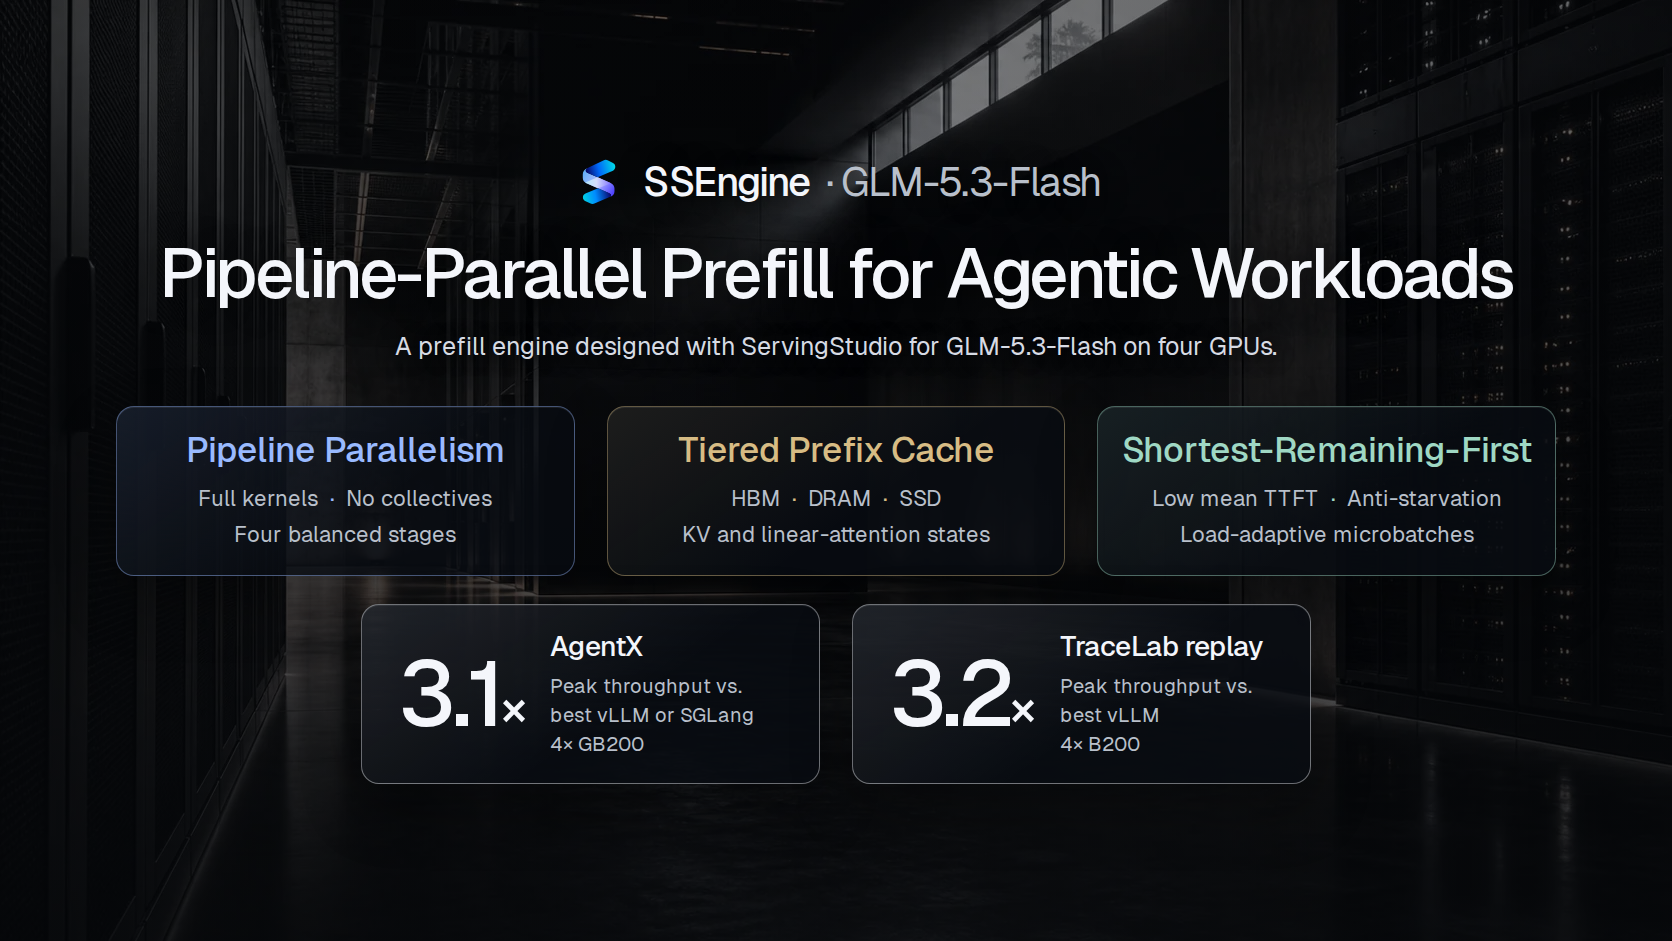
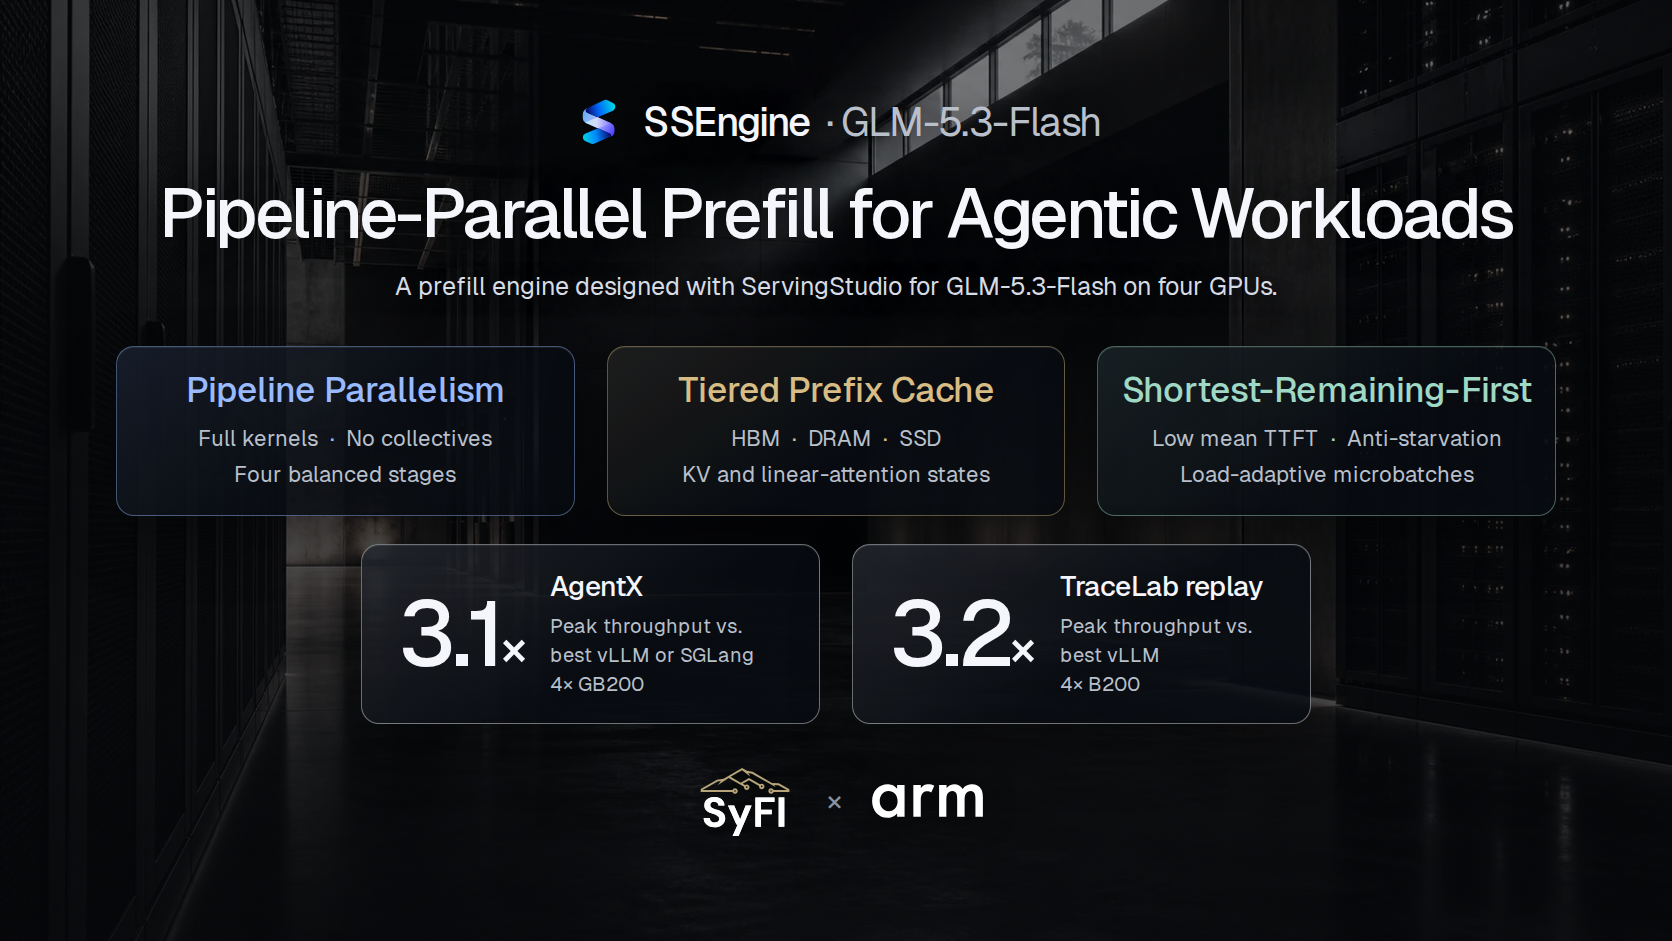
Blog: author affiliations; SSEngine post credits Arm
Posts may list affiliations in metadata.json ([{ name, authors }]); the post
header numbers each author and lists the affiliations under the names. The
SSEngine-GLM5.3-Flash post lists the University of Washington and Arm, names
the AgentX hardware as an Arm-based GB200 NVL72 rack, adds an
Acknowledgments section, and its teaser carries the SyFI and Arm logos.

diff --git a/src/pages/Blog.jsx b/src/pages/Blog.jsx
@@ -75,12 +75,35 @@ function Citation({ citation }) {
   );
 }
 
-function PostMeta({ post }) {
+/* The post's own header numbers each author's affiliations and lists them
+   under the line; the index cards show names only. */
+function PostMeta({ post, affiliations = false }) {
+  const marks = affiliations ? post.affiliations?.marks : null;
   return (
     <div className={s.meta}>
       {post.date && <time dateTime={post.date}>{formatDate(post.date)}</time>}
-      <span>{post.authors.join(", ")}</span>
+      <span>
+        {marks
+          ? post.authors.map((author, i) => (
+              <span key={author}>
+                {i > 0 && ", "}
+                {author}
+                <sup>{marks[i].join(",")}</sup>
+              </span>
+            ))
+          : post.authors.join(", ")}
+      </span>
       <span>{post.readingMinutes} min read</span>
+      {marks && (
+        <span className={s.affiliations}>
+          {post.affiliations.names.map((name, i) => (
+            <span key={name}>
+              <sup>{i + 1}</sup>
+              {name}
+            </span>
+          ))}
+        </span>
+      )}
     </div>
   );
 }
@@ -127,7 +150,7 @@ export default function Blog({ slug }) {
           </div>
           <h1>{post.title}</h1>
           <p>{post.description}</p>
-          <PostMeta post={post} />
+          <PostMeta post={post} affiliations />
         </header>
         <div className={s.articleLayout}>
           <aside className={s.contents}>

diff --git a/src/pages/Blog.module.css b/src/pages/Blog.module.css
@@ -222,6 +222,20 @@
   line-height: 1.6;
 }
 
+.meta sup {
+  margin-left: 1px;
+  font-size: 0.7em;
+}
+
+/* Its own line under the authors: "1 University of Washington  2 Arm". */
+.affiliations {
+  display: flex;
+  flex-basis: 100%;
+  flex-wrap: wrap;
+  gap: 4px 18px;
+  margin-top: -4px;
+}
+
 .postCopy .meta {
   margin-top: auto;
   padding-top: 24px;

diff --git a/content/blog/ssengine-glm53-flash/index.md b/content/blog/ssengine-glm53-flash/index.md
@@ -126,7 +126,7 @@ An agent fleet keeps hundreds or thousands of sessions alive at once, and most o
 
 Figure 11a follows the cache through eight hours of a simulated fleet of 1,500 TraceLab sessions on four B200 GPUs, each with 150 GB of DRAM and an 8 TB SSD. This is the load at which the GPUs serve the most requests per second. HBM and DRAM fill within seconds, because all 1,500 sessions start at once. The SSD then keeps filling: after eight hours, it holds 2.9 TB per GPU, 29 times what HBM holds, and it is still rising. Returning turns read their contexts from all three tiers: 20.7% find them in HBM, 55.6% in DRAM and 23.6% on the SSD. Without the SSD, the same fleet collapses. Nearly every turn must then prefill its whole context again, and the throughput falls from about 55 requests per second to below 1.
 
-Real hardware shows the same limits (Figures 11b and 11c). We serve AgentX on four GB200 GPUs with three cache sizes: HBM only, HBM plus 100 GB of DRAM per GPU, and both plus a 512 GB SSD per GPU. We define the hit rate as the share of prompt tokens read from the cache instead of being prefilled. Up to 128 agents, the three sizes perform the same, because the contexts still fit in HBM. At 256 agents, HBM alone no longer holds them: with HBM only, the hit rate is 89% and the throughput 12.5 requests per second, against 94% and 15.0, respectively, with the larger caches. At 512 agents, DRAM is not enough either. With HBM only, the hit rate falls to 60% and the throughput to 4.7 requests per second; with DRAM, they fall to 88% and 13.7. Only with the SSD does the hit rate stay at 94% and the throughput rise to 24.0 requests per second.
+Real hardware shows the same limits (Figures 11b and 11c). We serve AgentX on four GPUs of an Arm-based NVIDIA GB200 NVL72 rack with three cache sizes: HBM only, HBM plus 100 GB of DRAM per GPU, and both plus a 512 GB SSD per GPU. We define the hit rate as the share of prompt tokens read from the cache instead of being prefilled. Up to 128 agents, the three sizes perform the same, because the contexts still fit in HBM. At 256 agents, HBM alone no longer holds them: with HBM only, the hit rate is 89% and the throughput 12.5 requests per second, against 94% and 15.0, respectively, with the larger caches. At 512 agents, DRAM is not enough either. With HBM only, the hit rate falls to 60% and the throughput to 4.7 requests per second; with DRAM, they fall to 88% and 13.7. Only with the SSD does the hit rate stay at 94% and the throughput rise to 24.0 requests per second.
 
 ![Per-GPU occupancy of HBM, DRAM and SSD over eight simulated hours of 1,500 sessions, and real AgentX throughput and cache hit rate for three cache sizes](assets/tier_capacity.png)
 
@@ -216,7 +216,7 @@ We evaluate SSEngine on two agent workloads on real hardware and compare it with
 
 ### AgentX on real hardware
 
-We ran SemiAnalysis's AgentX, which replays coding-agent sessions, on four GB200 GPUs, for 30 minutes at each number of concurrent agents. We compare SSEngine with vLLM and SGLang, each run as TP + TP and as DP + EP, two of the designs of Figure 7, and with SGLang run as PP. For each baseline design and number of agents, we report the cache setting with the highest request rate among those we ran: HBM only, HBM plus DRAM, and HBM plus DRAM and SSD.
+We ran SemiAnalysis's AgentX, which replays coding-agent sessions, on four GPUs of an Arm-based GB200 NVL72 rack, for 30 minutes at each number of concurrent agents. We compare SSEngine with vLLM and SGLang, each run as TP + TP and as DP + EP, two of the designs of Figure 7, and with SGLang run as PP. For each baseline design and number of agents, we report the cache setting with the highest request rate among those we ran: HBM only, HBM plus DRAM, and HBM plus DRAM and SSD.
 
 Figure 14 plots the request rate and the median TTFT against the number of concurrent agents. With 64 agents, every system serves about 4 requests per second, because the GPUs are lightly loaded. As agents are added, every baseline reaches its highest rate with at most 256 agents and then falls. The highest baseline rate is that of SGLang PP: 7.7 requests per second with 256 agents, at a median TTFT of 22 s. SSEngine's rate keeps rising, to 24.0 requests per second with 512 agents, 3.1 times that rate, at a median TTFT of 1.7 s. With 512 agents, every baseline serves fewer than 3 requests per second, and with 768, SSEngine is overloaded as well: its median TTFT exceeds 60 s. Part of the gap comes from the cache: with 512 agents, SSEngine reads 94% of the prompt tokens from its cache, and the baselines at most 75%.
 
@@ -269,3 +269,7 @@ Figure 18b shows which kernel families cause the three largest recoverable losse
 SSEngine-GLM5.3-Flash is open source at [github.com/SyFI-ServingStudio/SSEngine-GLM5.3-Flash](https://github.com/SyFI-ServingStudio/SSEngine-GLM5.3-Flash). It serves the NVFP4 or the FP8 checkpoint of GLM-5.3-Flash on four B200 GPUs behind an OpenAI-compatible API. It is meant to be the prefill side of a deployment whose decode runs elsewhere: it has no decode path, and each request returns one token. Its README explains how to run it with Docker or from source, size each tier, and reproduce the real-hardware results in this post.
 
 To explore designs for other models and GPUs, or to rerun the simulations in this post, use [ServingStudio](https://github.com/SyFI-ServingStudio/ServingStudio). Its Analyzer splits the GPU time of any simulated design by cause, as in Figure 18.
+
+## Acknowledgments
+
+This work was supported in part by our ongoing collaboration with Arm.
